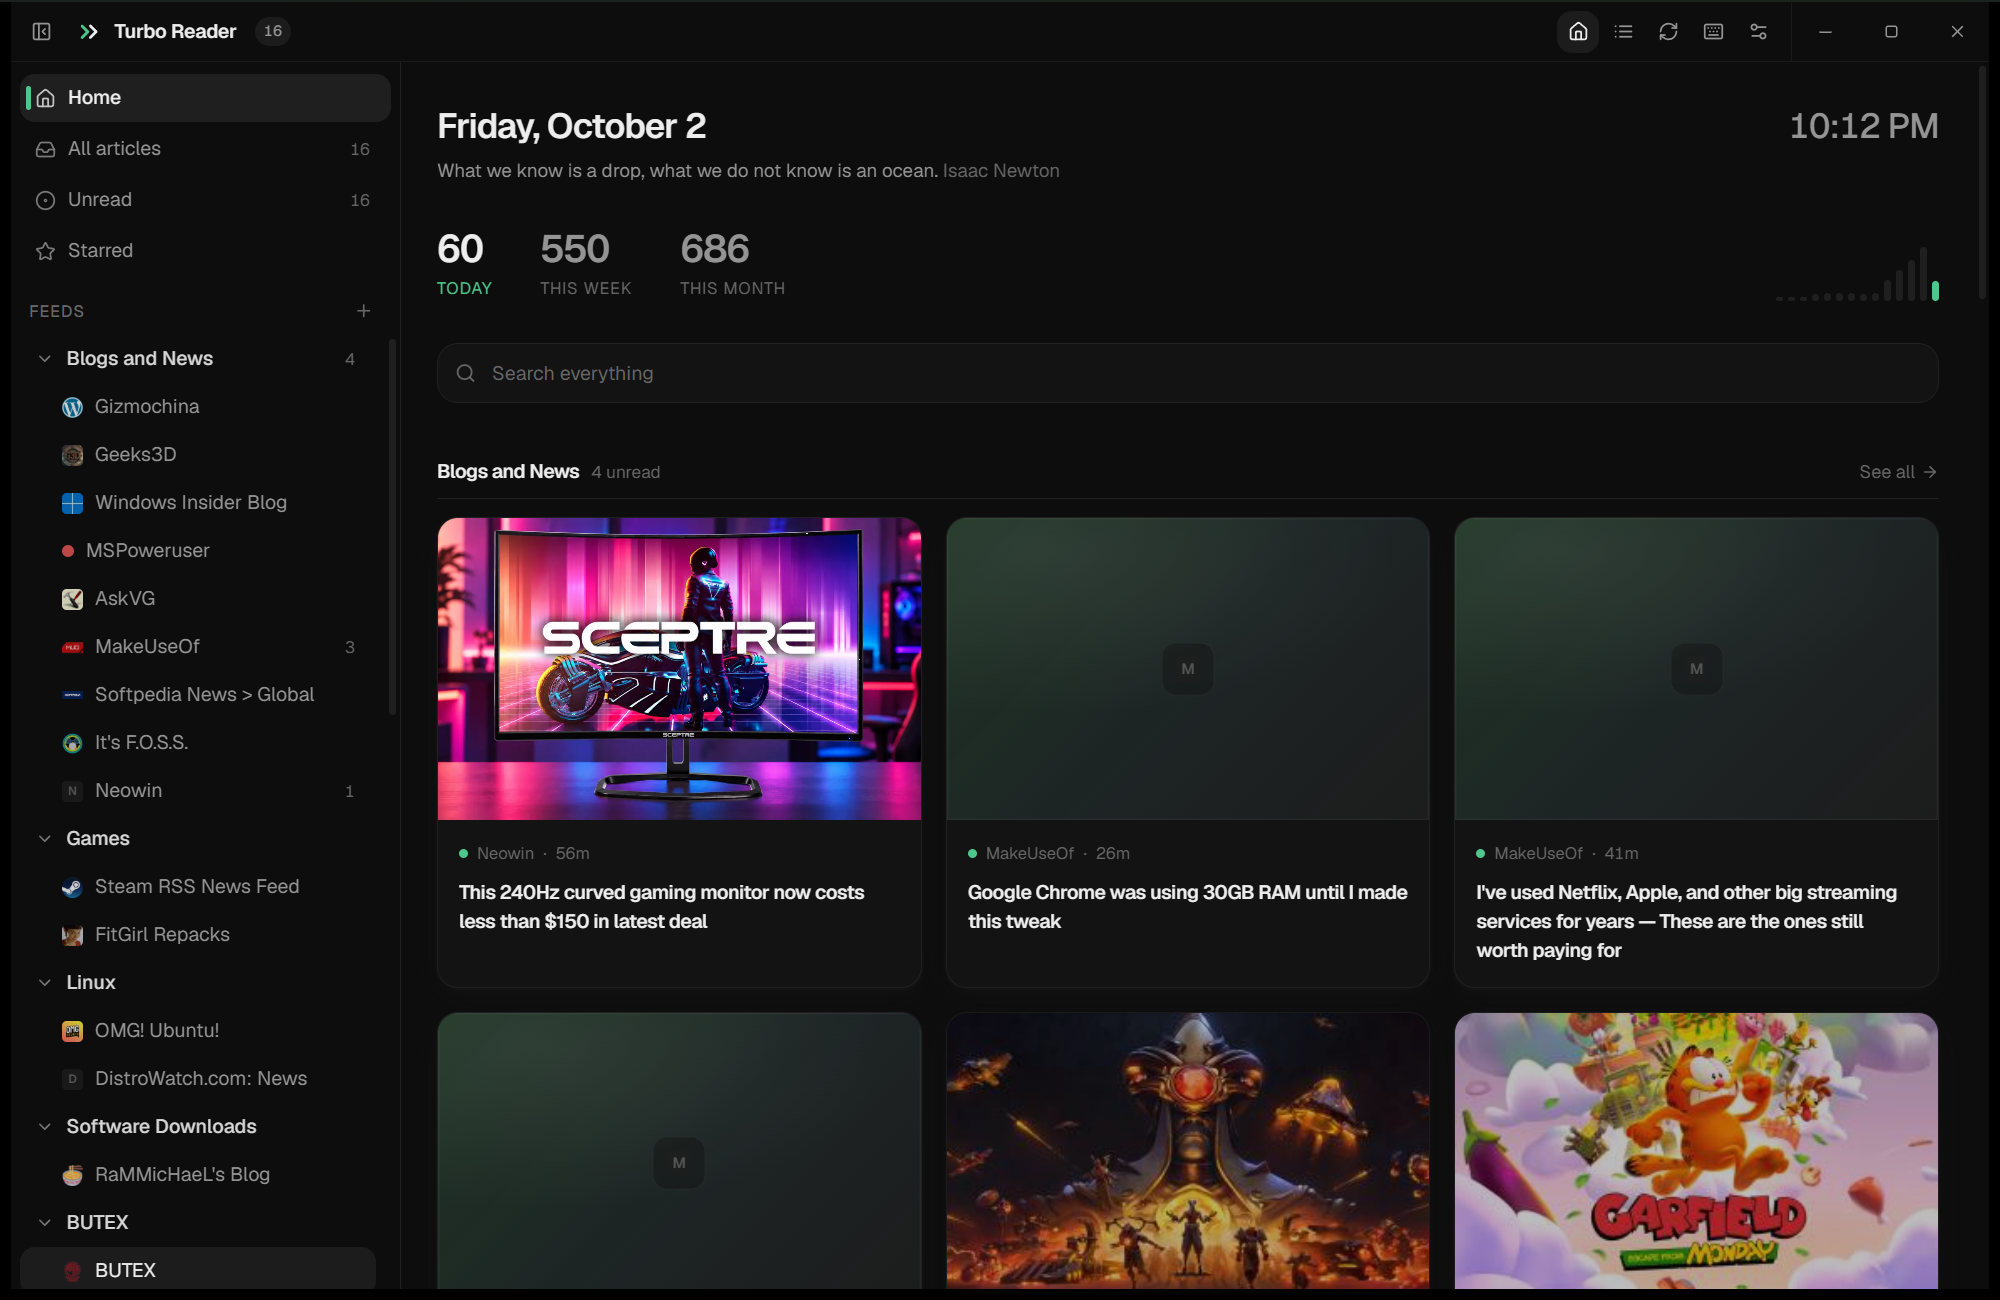
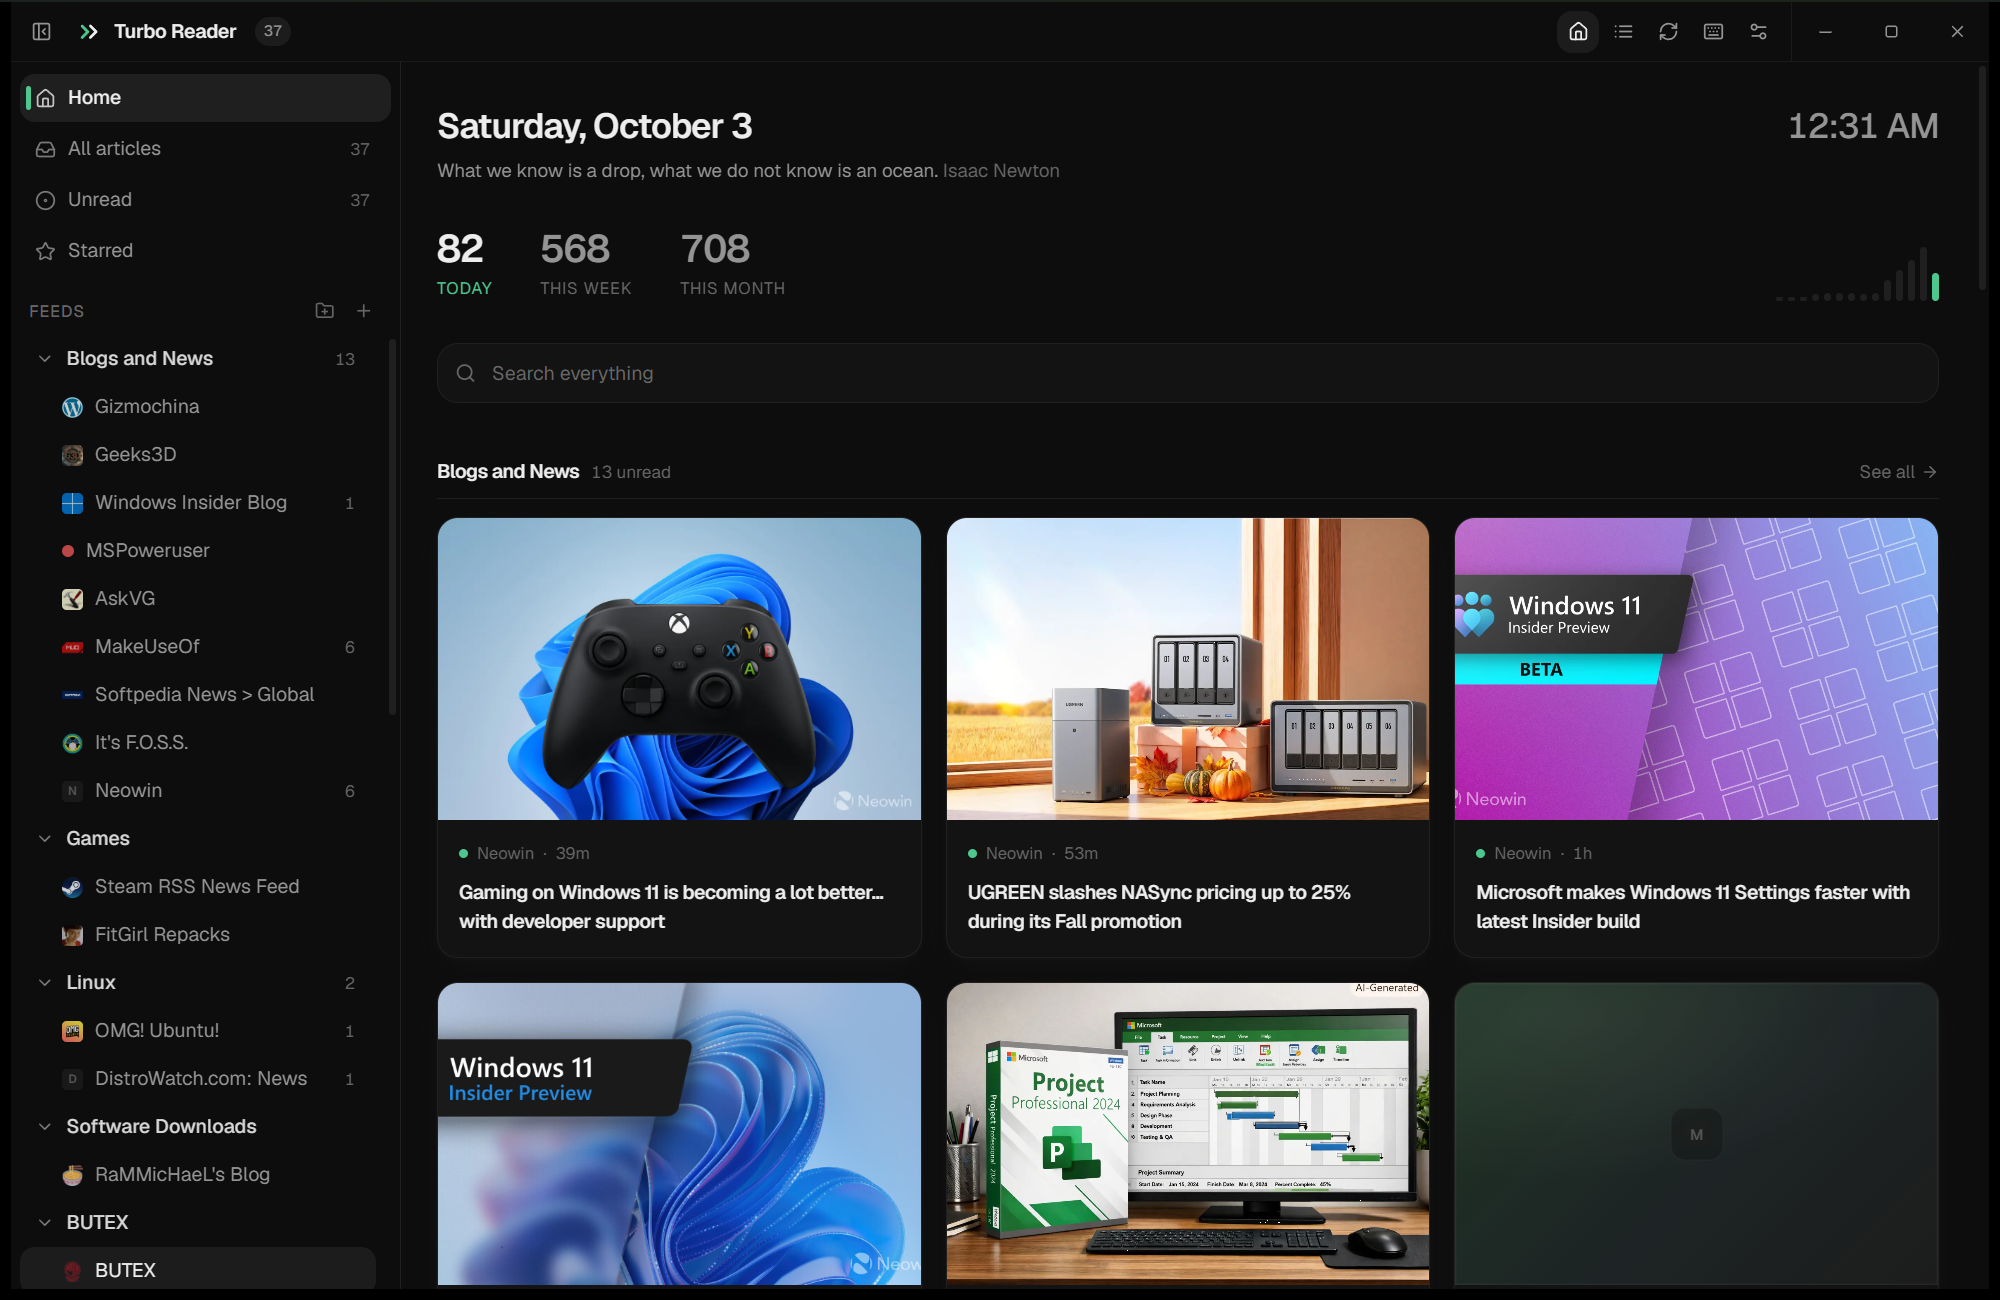
docs: add the feed management screenshot and name the Linux sizes
The right-click menu is the headline of 0.3 and was not pictured anywhere. The
README screenshot grid now leads with it.

The release page spelled out .deb and .rpm at 4.5 MB next to the 79 MB
AppImage, with the reason. The AppImage bundles the GTK and WebKit stack, so
the number is real and contradicts the size claim one section above it unless
it is explained.

Claude-Session: https://claude.ai/code/session_01VqregQVGWzrjN93fSdwC9h

diff --git a/README.md b/README.md
@@ -24,13 +24,13 @@ By **[t21 dev](https://github.com/t21dev)** and **[TriptoAfsin](https://github.c
 
 ![The home page: counts, search, pinned feeds and a band per category](docs/screenshot-home.png)
 
-| Dark | Light |
+| Feed management | The reader |
 | --- | --- |
-| ![Home in dark](docs/screenshot-home.png) | ![Home in light](docs/screenshot-light.png) |
+| ![Rename, pin, move, retention, delete](docs/screenshot-feed-menu.png) | ![An article with its full text loaded](docs/screenshot-reader.png) |
 
-| The reader | Article actions |
+| Article actions | Light |
 | --- | --- |
-| ![An article with its full text loaded](docs/screenshot-reader.png) | ![Copy link, Markdown, PDF, font, QR code](docs/screenshot-menu.png) |
+| ![Copy link, Markdown, PDF, font, QR code](docs/screenshot-menu.png) | ![Home in light](docs/screenshot-light.png) |
 
 | Settings | Shortcuts |
 | --- | --- |
